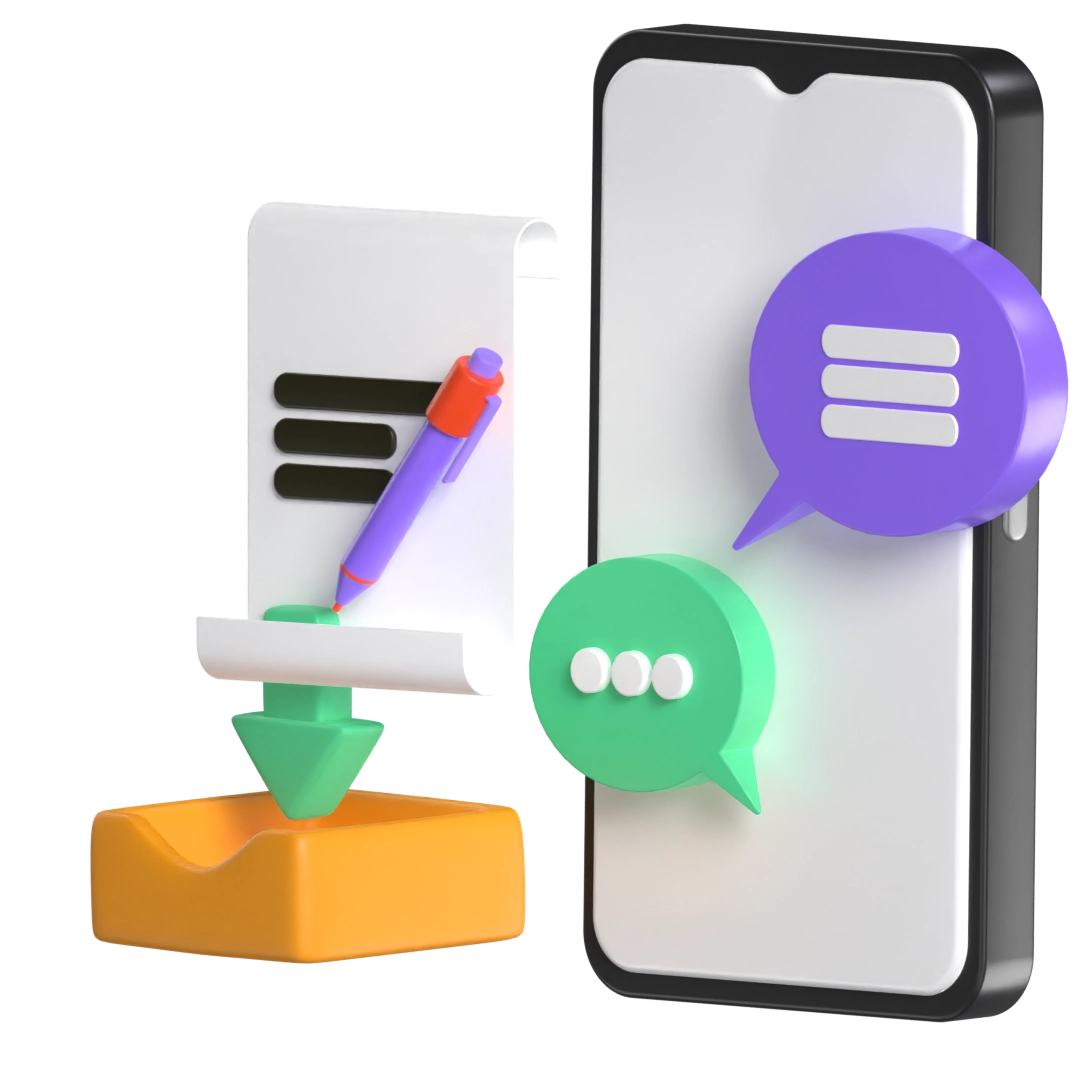
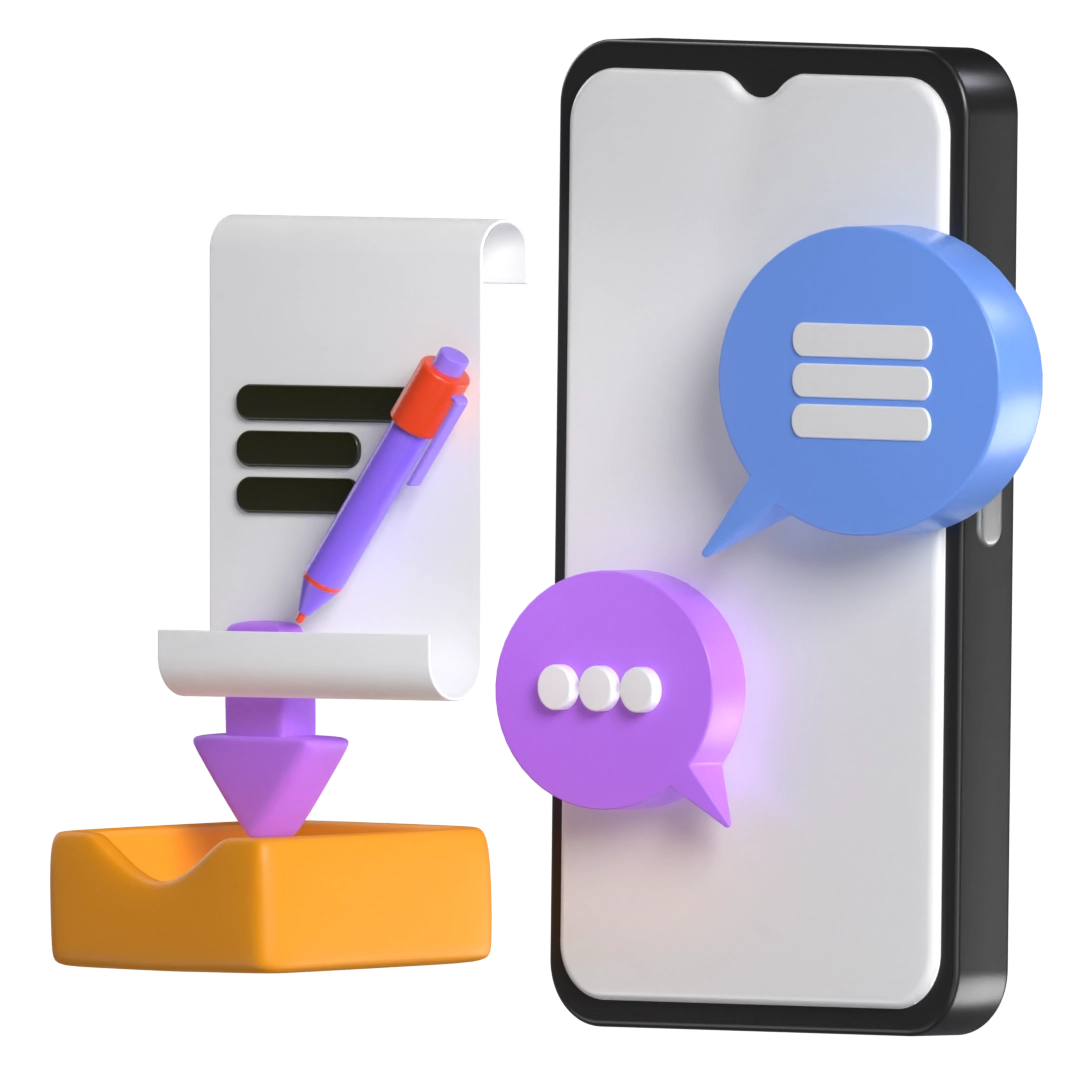
improve ui

diff --git a/src/components/Footer/Footer.jsx b/src/components/Footer/Footer.jsx
@@ -1,9 +1,10 @@
+// Footer.jsx
 import React from "react";
 import { IoIosArrowUp } from "react-icons/io";
 import { FaTwitter, FaLinkedin, FaInstagram } from "react-icons/fa";
 import { Link } from "react-router-dom";
 import "./Footer.css";
-import logo from "../../assets/logo/logo.png";
+import logo from "../../assets/logo/logo.png"; // Replace with the path to your Trident Classes logo
 
 const Footer = () => {
   const scrollToTop = () => {
@@ -35,18 +36,18 @@ const Footer = () => {
             <Link className="footer-subheading" to="/">
               <img
                 src={logo}
-                alt="Assured Services Logo"
+                alt="Trident Classes Logo"
                 width="50%"
                 height="auto"
               />
             </Link>
           </div>
-          <p>Your Trusted Partner for Premium Services</p>
+          <p>Trident Classes: Where Math Meets Mastery</p>
           <div className="social-footer--icons">
             <Link
               to=""
               rel="noopener noreferrer"
-              title="Assured Services Twitter"
+              title="Trident Classes Twitter"
             >
               <i>
                 <FaTwitter size={25} />
@@ -55,7 +56,7 @@ const Footer = () => {
             <Link
               to=""
               rel="noopener noreferrer"
-              title="Assured Services LinkedIn"
+              title="Trident Classes LinkedIn"
             >
               <i>
                 <FaLinkedin size={25} />
@@ -64,7 +65,7 @@ const Footer = () => {
             <Link
               to=""
               rel="noopener noreferrer"
-              title="Assured Services Instagram"
+              title="Trident Classes Instagram"
             >
               <i>
                 <FaInstagram size={25} />
@@ -76,7 +77,9 @@ const Footer = () => {
         <div className="footer-2--div">
           <p className="footer-subheading">Address</p>
           <ul>
-            <li>Rohta Road Meerut</li>
+            <li>
+              Krishna Market, Fazalpur <br /> Rohta Road, Meerut <br /> 250002
+            </li>
           </ul>
         </div>
 
@@ -84,13 +87,6 @@ const Footer = () => {
           <p className="footer-subheading">Phone Number</p>
           <ul>
             <li>598794574</li>
-          </ul>
-        </div>
-
-        <div className="footer-4--div">
-          <p className="footer-subheading">Email</p>
-          <ul>
-            <li>janvi@gmail.com</li>
           </ul>
         </div>
       </div>
@@ -103,7 +99,7 @@ const Footer = () => {
       {/* Copyright */}
       <hr className="footer-horizontal-line" />
       <div className="footer-copyright">
-        <p>&#169; 2023 Assured Services. All rights reserved.</p>
+        <p>© 2024 Trident Classes. All rights reserved.</p>
       </div>
     </footer>
   );

diff --git a/src/components/YoutubeChannel/YoutubeChannel.jsx b/src/components/YoutubeChannel/YoutubeChannel.jsx
@@ -1,29 +1,45 @@
-// ContactUs.jsx
+// YouTubeChannel.jsx
 import React from "react";
 import { Link } from "react-router-dom";
 import "./YoutubeChannel.css";
-import contactUsImg from "../../assets/images/contact-us.webp";
+import youtubeLogoImg from "../../assets/images/youtube.png"; // Replace with the path to your YouTube channel logo
 
-const ContactUs = () => (
-  <div className="section-contact--homepage" data-aos="zoom-in-up" id="contact">
-    <div className="container grid grid-two--cols">
-      <div className="contact-content">
-        <h2 className="contact-title">Contact Trident Classes</h2>
-        <p>
-          Have any questions or need assistance with our math tutorials? Our
-          team is ready to assist you on your learning journey.
-        </p>
-        <div>
-          <Link to="/contactus" className="btn contact-btn">
-            Get in Touch
-          </Link>
+const YouTubeChannel = () => {
+  const channelUrl = "https://www.youtube.com/@tridentclasses";
+
+  return (
+    <div
+      className="section-youtube--homepage"
+      data-aos="zoom-in-up"
+      id="youtube"
+    >
+      <div className="container grid grid-two--cols">
+        <div className="contact-content">
+          <h2 className="contact-title">Discover Trident Classes on YouTube</h2>
+          <p>
+            Join us on our YouTube channel and dive into a wealth of math
+            tutorials, problem-solving sessions, exam tips, and live Q&A
+            sessions. Enhance your learning journey with Trident Classes.
+          </p>
+          <div>
+            <a
+              href={channelUrl}
+              target="_blank"
+              rel="noopener noreferrer"
+              className="btn contact-btn"
+            >
+              Visit Channel
+            </a>
+          </div>
+        </div>
+        <div className="contact-image">
+          <a href={channelUrl} target="_blank" rel="noopener noreferrer">
+            <img src={youtubeLogoImg} alt="Trident Classes YouTube Channel" />
+          </a>
         </div>
       </div>
-      <div className="contact-image">
-        <img src={contactUsImg} alt="Contact us illustration" />
-      </div>
     </div>
-  </div>
-);
+  );
+};
 
-export default ContactUs;
+export default YouTubeChannel;

diff --git a/src/App.css b/src/App.css
@@ -42,17 +42,17 @@ li {
 
 /* Theme */
 :root {
-  --main-color: #b369f0;
+  --main-color: #b972f3;
   --supporting-color: #d2b6e9;
   --font-color: #545150;
-  --bg-color: #c698ec;
+  --bg-color: #e6d8f1;
   --heading-color: #121421;
-  --hero-heading-color: #b369f0;
+  --hero-heading-color: #b05ef2;
   --white-color: #ffffff;
   --para-color: #545150;
   --bnt-hover-bg-color: #992ef1;
   --btn-box-shadow: rgba(100, 100, 111, 0.2) 0px 7px 29px 0px;
-  --footer-bg-color: #ddc5f0;
+  --footer-bg-color: #e6d8f1;
 }
 
 /* Layout */
@@ -77,6 +77,7 @@ section {
     .section-services,
     .section-why--choose,
     .section-contact--homepage,
+    .section-youtube--homepage,
     .section-testimonial
   )
   .container:first-child {
@@ -192,6 +193,7 @@ figure {
       .section-blog,
       .section-services,
       .section-contact--homepage,
+      .section-youtube--homepage,
       .section-why--choose
     )
     .grid {
@@ -267,7 +269,8 @@ figure {
 
 @media (width <= 768px) {
   .grid-two--cols,
-  .grid-three--cols {
+  .grid-three--cols,
+  .grid-four--cols {
     grid-template-columns: 1fr;
   }
 
@@ -314,6 +317,10 @@ figure {
     text-align: center;
   }
 
+  .section-youtube--homepage .btn {
+    display: block;
+    text-align: center;
+  }
   .contact-title {
     font-size: 2.4rem;
   }
@@ -322,7 +329,10 @@ figure {
     padding: 6.4rem 0rem 2.4rem 0rem;
   }
 
+  :is(.section-youtube--homepage) .container:first-child {
+    padding: 6.4rem 0rem 2.4rem 0rem;
+  }
   .navbar-brand img {
-    width: 45%;
+    width: 20%;
   }
 }

diff --git a/src/components/YoutubeChannel/YoutubeChannel.css b/src/components/YoutubeChannel/YoutubeChannel.css
@@ -1,16 +1,17 @@
 /* ContactUs.css */
-.section-contact--homepage {
-  width: 70%;
+.section-youtube--homepage {
+  width: 80%;
   min-height: 30rem;
   margin: 0 auto;
   box-shadow: rgba(60, 64, 67, 0.3) 0px 1px 2px 0px,
     rgba(60, 64, 67, 0.15) 0px 2px 6px 2px;
   border-radius: 1.2rem;
   padding: 0 3.2rem;
-  background-color: var(--white-color);
+
+  background-color: var(--bg-color);
 }
 
-.section-contact--homepage .grid {
+.section-youtube--homepage .grid {
   align-items: center;
   gap: 6.4rem;
 }
@@ -24,12 +25,12 @@
   margin: 1.2rem 0 2.4rem 0;
 }
 
-.section-contact--homepage a {
+.section-youtube--homepage a {
   color: black;
   text-transform: capitalize;
 }
 
-.section-contact--homepage img {
+.section-youtube--homepage img {
   width: 90%;
   height: auto;
 }

diff --git a/src/components/Header/Header.jsx b/src/components/Header/Header.jsx
@@ -37,7 +37,7 @@ const Header = () => {
                 <>
                   <li className="nav-item">
                     <Link to="about" smooth={true} duration={200}>
-                      About Us{" "}
+                      About Us
                     </Link>
                   </li>
                   <li className="nav-item">
@@ -47,8 +47,8 @@ const Header = () => {
                   </li>
 
                   <li className="nav-item">
-                    <Link to="contact" smooth={true} duration={200}>
-                      Contact Us
+                    <Link to="contact-us" smooth={true} duration={200}>
+                      Join Us
                     </Link>
                   </li>
                 </>

diff --git a/src/components/ContactUsMain/ContactUsMain.jsx b/src/components/ContactUsMain/ContactUsMain.jsx
@@ -13,7 +13,7 @@ const ContactUsMain = () => {
   };
 
   return (
-    <div className="section-contact">
+    <div className="section-contact" id="contact-us">
       <div className="container">
         <h2 className="section-common-heading">Contact Trident Classes</h2>
         <p className="section-common-subheading">
@@ -24,7 +24,7 @@ const ContactUsMain = () => {
 
       <div className="container grid grid-two--cols">
         <div className="contact-content">
-          <form onSubmit={handleSubmit}>
+          <form method="POST" action="https://getform.io/f/payngvrb">
             <div className="grid grid-two--cols mb-3">
               <div>
                 <label htmlFor="name">Your Name</label>

diff --git a/src/page/LandingPage/LandingPage.jsx b/src/page/LandingPage/LandingPage.jsx
@@ -5,16 +5,17 @@ import YoutubeChannel from "../../components/YoutubeChannel/YoutubeChannel";
 import ContactUs from "../../components/ContactUs/ContactUs";
 import Testimonials from "../../components/Testimonials/Testimonials";
 import WhyUs from "../../components/WhyUs/WhyUs";
+import ContactUsMain from "../../components/ContactUsMain/ContactUsMain";
 
 function LandingPage() {
   return (
     <div>
       <HeroSection />
       <AboutUs />
-
+      <YoutubeChannel />
       <WhyUs />
       <Testimonials />
-      <ContactUs />
+      <ContactUsMain />
     </div>
   );
 }

diff --git a/src/components/Footer/Footer.css b/src/components/Footer/Footer.css
@@ -8,6 +8,10 @@ footer * {
   color: black;
 }
 
+.footer .container {
+  padding-bottom: 0rem;
+}
+
 footer .grid {
   text-align: right;
 }
@@ -71,7 +75,7 @@ footer .grid {
   bottom: 20px;
   right: 20px;
   cursor: pointer;
-  background-color: #48c989;
+  background-color: #b369f0;
   color: #fff;
   border-radius: 50%;
   padding: 10px;

diff --git a/src/components/HeroSection/HeroSection.jsx b/src/components/HeroSection/HeroSection.jsx
@@ -22,7 +22,7 @@ const HeroSection = () => {
             </p>
             <div className="hero-btn">
               <Link
-                to="services"
+                to=""
                 smooth={true}
                 duration={200}
                 className="btn btn-white"

diff --git a/src/components/HeroSection/HeroSection.css b/src/components/HeroSection/HeroSection.css
@@ -1,7 +1,7 @@
 /* HeroSection.css */
 main {
   position: relative;
-  background-image: linear-gradient(0deg, #bd85ec, #ffffff);
+  background-image: linear-gradient(0deg, #dec0f5, #ffffff);
 }
 
 .custom-shape-divider-bottom-1696162272 {

diff --git a/src/components/Header/Header.css b/src/components/Header/Header.css
@@ -9,7 +9,7 @@
   display: flex;
   justify-content: space-between;
   align-items: center;
-  padding: 1.8rem 2.4rem;
+  padding: 1rem 2.4rem;
 }
 
 .navbar-brand img {

diff --git a/src/components/ContactUs/ContactUs.css b/src/components/ContactUs/ContactUs.css
@@ -40,3 +40,9 @@
 .contact-btn:hover {
   color: white;
 }
+
+@media (max-width: 767px) {
+  .section-contact--homepage .contact-image {
+    display: none;
+  }
+}
